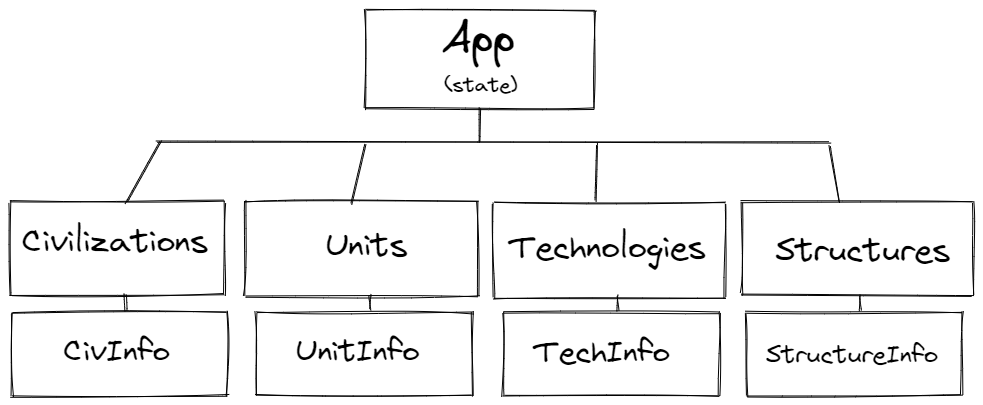
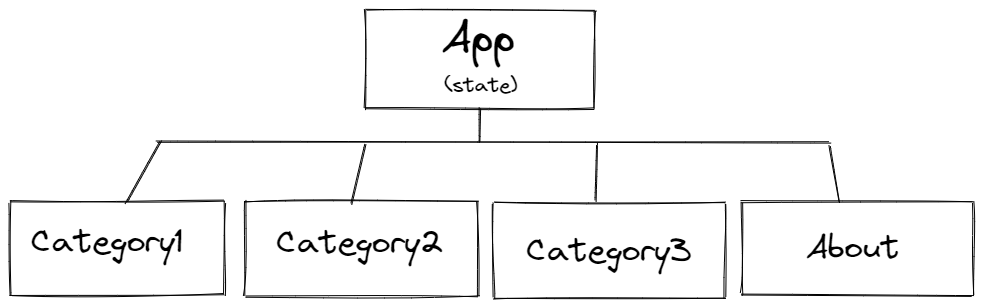
undated readme and images

Changed region(s): [[0.0, 0.4104, 1.0, 0.9967], [0.1526, 0.2638, 0.8545, 0.3811], [0.3662, 0.0, 0.6104, 0.2345]]

diff --git a/public/index.html b/public/index.html
@@ -24,7 +24,7 @@
       work correctly both with client-side routing and a non-root public URL.
       Learn how to configure a non-root public URL by running `npm run build`.
     -->
-    <title>React App</title>
+    <title>F2P</title>
   </head>
   <body>
     <noscript>You need to enable JavaScript to run this app.</noscript>

diff --git a/README.md b/README.md
@@ -1,7 +1,6 @@
 # Project 2 Proposal
 ## Description
-Using and API for the game Age of Empires 2, I will make a site that lists all of the civilizations you can play, and when you click on them, you will get details about the
-features that are unique to each one.
+Using and API from https://www.freetogame.com/api-doc , I will make a site that lists free to play games, and when you click on them, you will get details about the game.
 
 ## Wireframes
 ![wireframe](src/img/project2.png)
